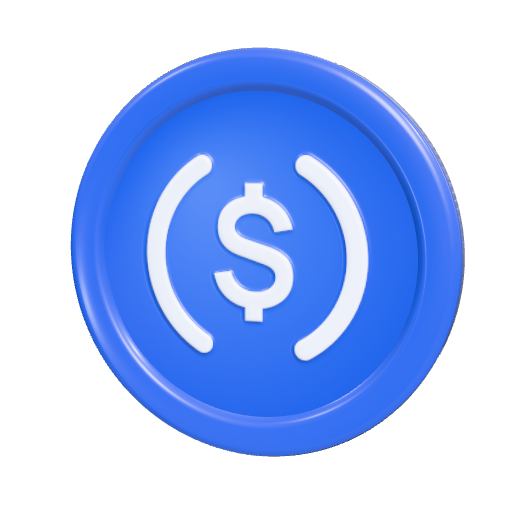
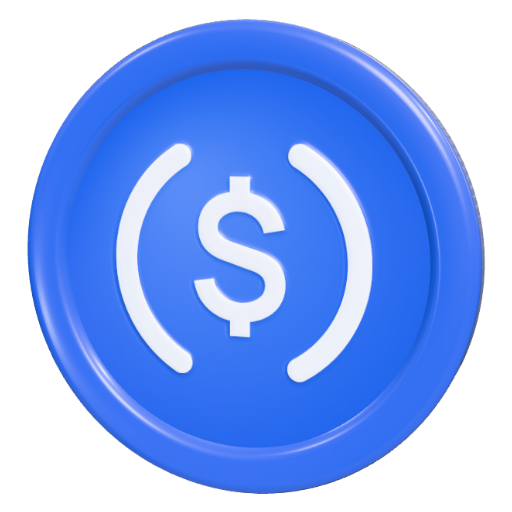
Crop rendered coins with even padding and show them uncropped

diff --git a/app/app/dev/coin/page.tsx b/app/app/dev/coin/page.tsx
@@ -4,6 +4,33 @@ import { useEffect, useState } from "react";
 
 const POSES: Record<string, [number, number]> = { front: [0.12, -0.32], tilt: [0.18, -0.62] };
 
+// Crop a rendered coin to a square around its visible pixels, with a little transparent padding,
+// so the image can be shown at 100% without clipping the rim.
+async function cropToCoin(dataUrl: string, padding = 0.04, out = 512) {
+  const img = new Image();
+  img.src = dataUrl;
+  await img.decode();
+  const c = document.createElement("canvas");
+  c.width = img.width;
+  c.height = img.height;
+  const ctx = c.getContext("2d")!;
+  ctx.drawImage(img, 0, 0);
+  const { data } = ctx.getImageData(0, 0, c.width, c.height);
+  let minX = c.width, minY = c.height, maxX = 0, maxY = 0;
+  for (let y = 0; y < c.height; y++)
+    for (let x = 0; x < c.width; x++)
+      if (data[(y * c.width + x) * 4 + 3] > 8) {
+        minX = Math.min(minX, x); maxX = Math.max(maxX, x);
+        minY = Math.min(minY, y); maxY = Math.max(maxY, y);
+      }
+  const side = Math.max(maxX - minX, maxY - minY) * (1 + padding * 2);
+  const cx = (minX + maxX) / 2, cy = (minY + maxY) / 2;
+  const o = document.createElement("canvas");
+  o.width = o.height = out;
+  o.getContext("2d")!.drawImage(c, cx - side / 2, cy - side / 2, side, side, 0, 0, out, out);
+  return o.toDataURL("image/png");
+}
+
 export default function CoinStills() {
   const [log, setLog] = useState<string[]>([]);
   useEffect(() => {
@@ -12,7 +39,7 @@ export default function CoinStills() {
       await document.fonts.load("700 470px Manrope"); // the $ is drawn with the brand font
       const { renderCoinStill } = await import("@/components/coin3d");
       for (const [name, pose] of Object.entries(POSES)) {
-        const data = renderCoinStill(pose, 512);
+        const data = await cropToCoin(renderCoinStill(pose, 768));
         const r = await fetch("/api/dev/coin", { method: "POST", headers: { "content-type": "application/json" }, body: JSON.stringify({ name, data }) });
         setLog((l) => [...l, `${name}: ${r.status}`]);
       }

diff --git a/app/app/globals.css b/app/app/globals.css
@@ -170,7 +170,7 @@ p { margin: 0; }
   width: var(--s);
   height: var(--s);
   flex: none;
-  background: url("/coin/front.png") 52% 50% / 128% no-repeat;
+  background: url("/coin/front.png") center / contain no-repeat; /* images are pre-cropped with padding */
   filter: drop-shadow(0 calc(var(--s) * 0.06) calc(var(--s) * 0.08) rgba(16, 60, 170, 0.28));
   transform-style: preserve-3d;
 }
